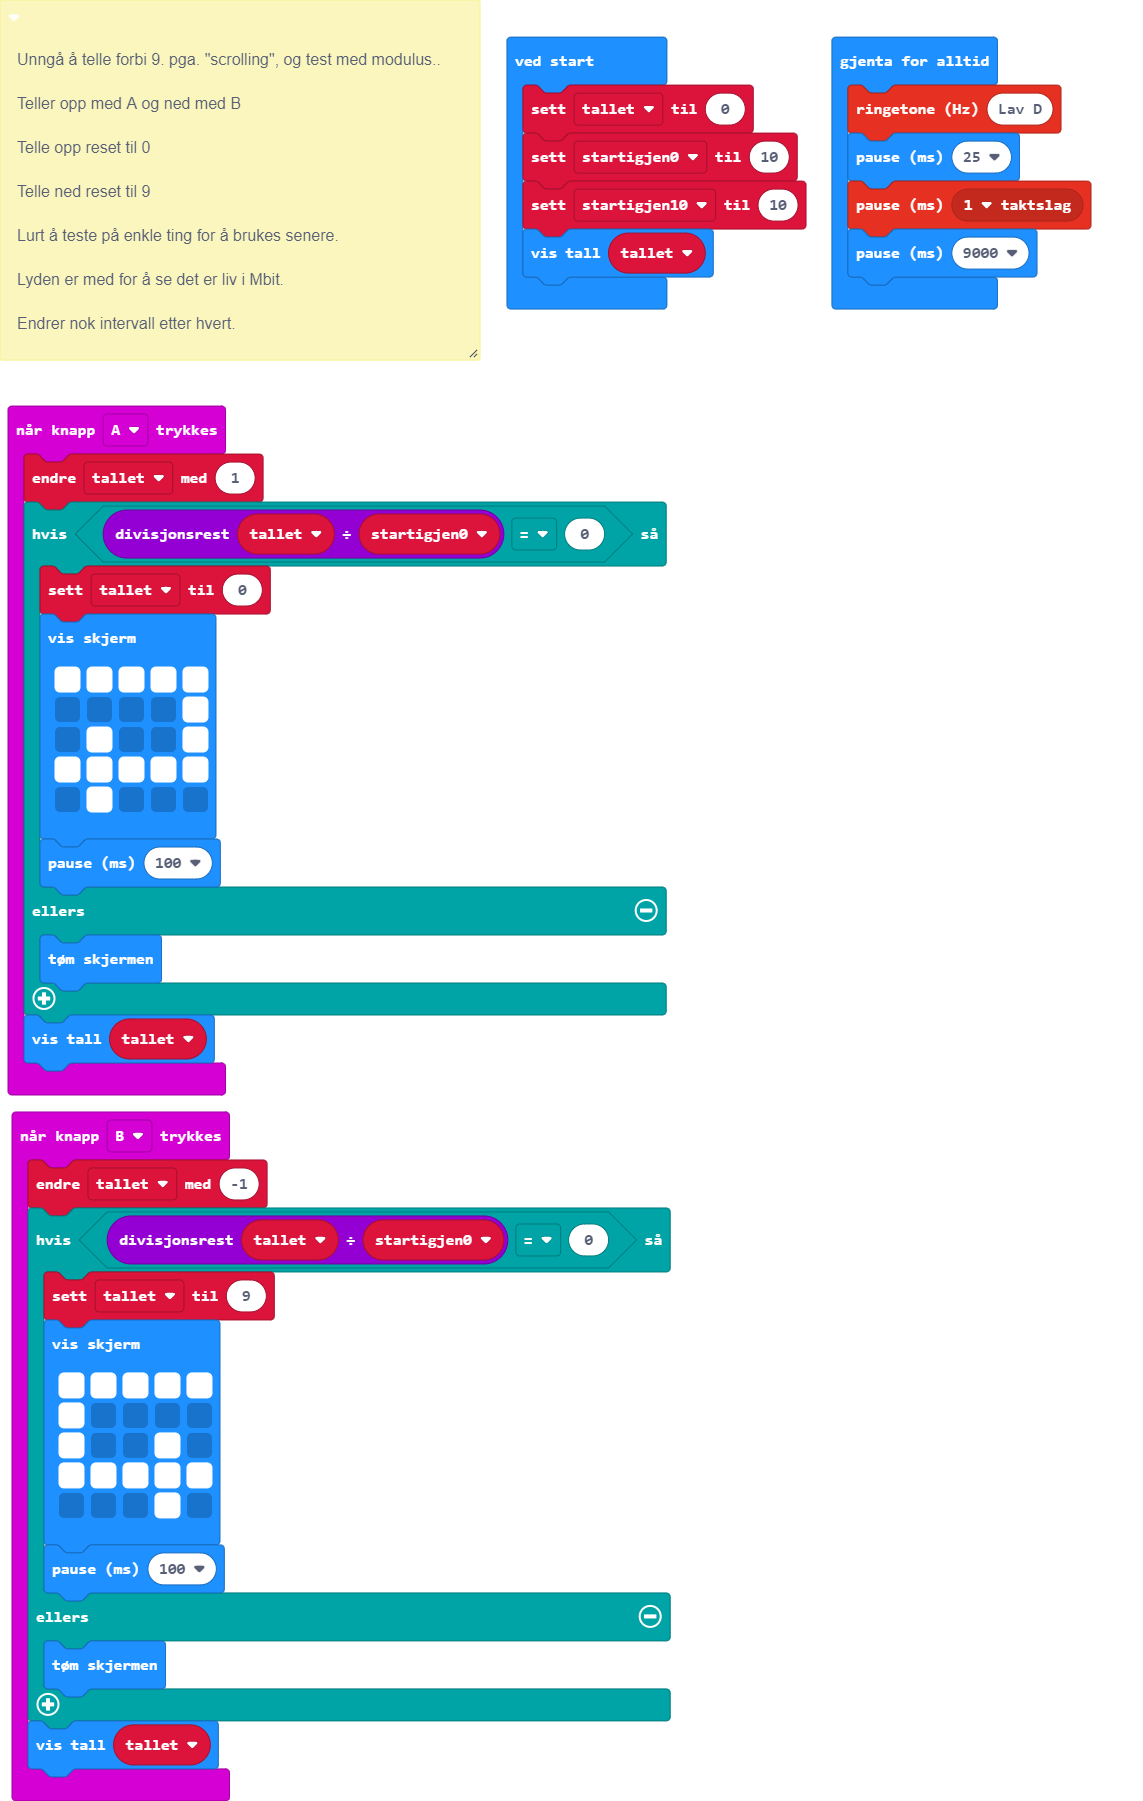
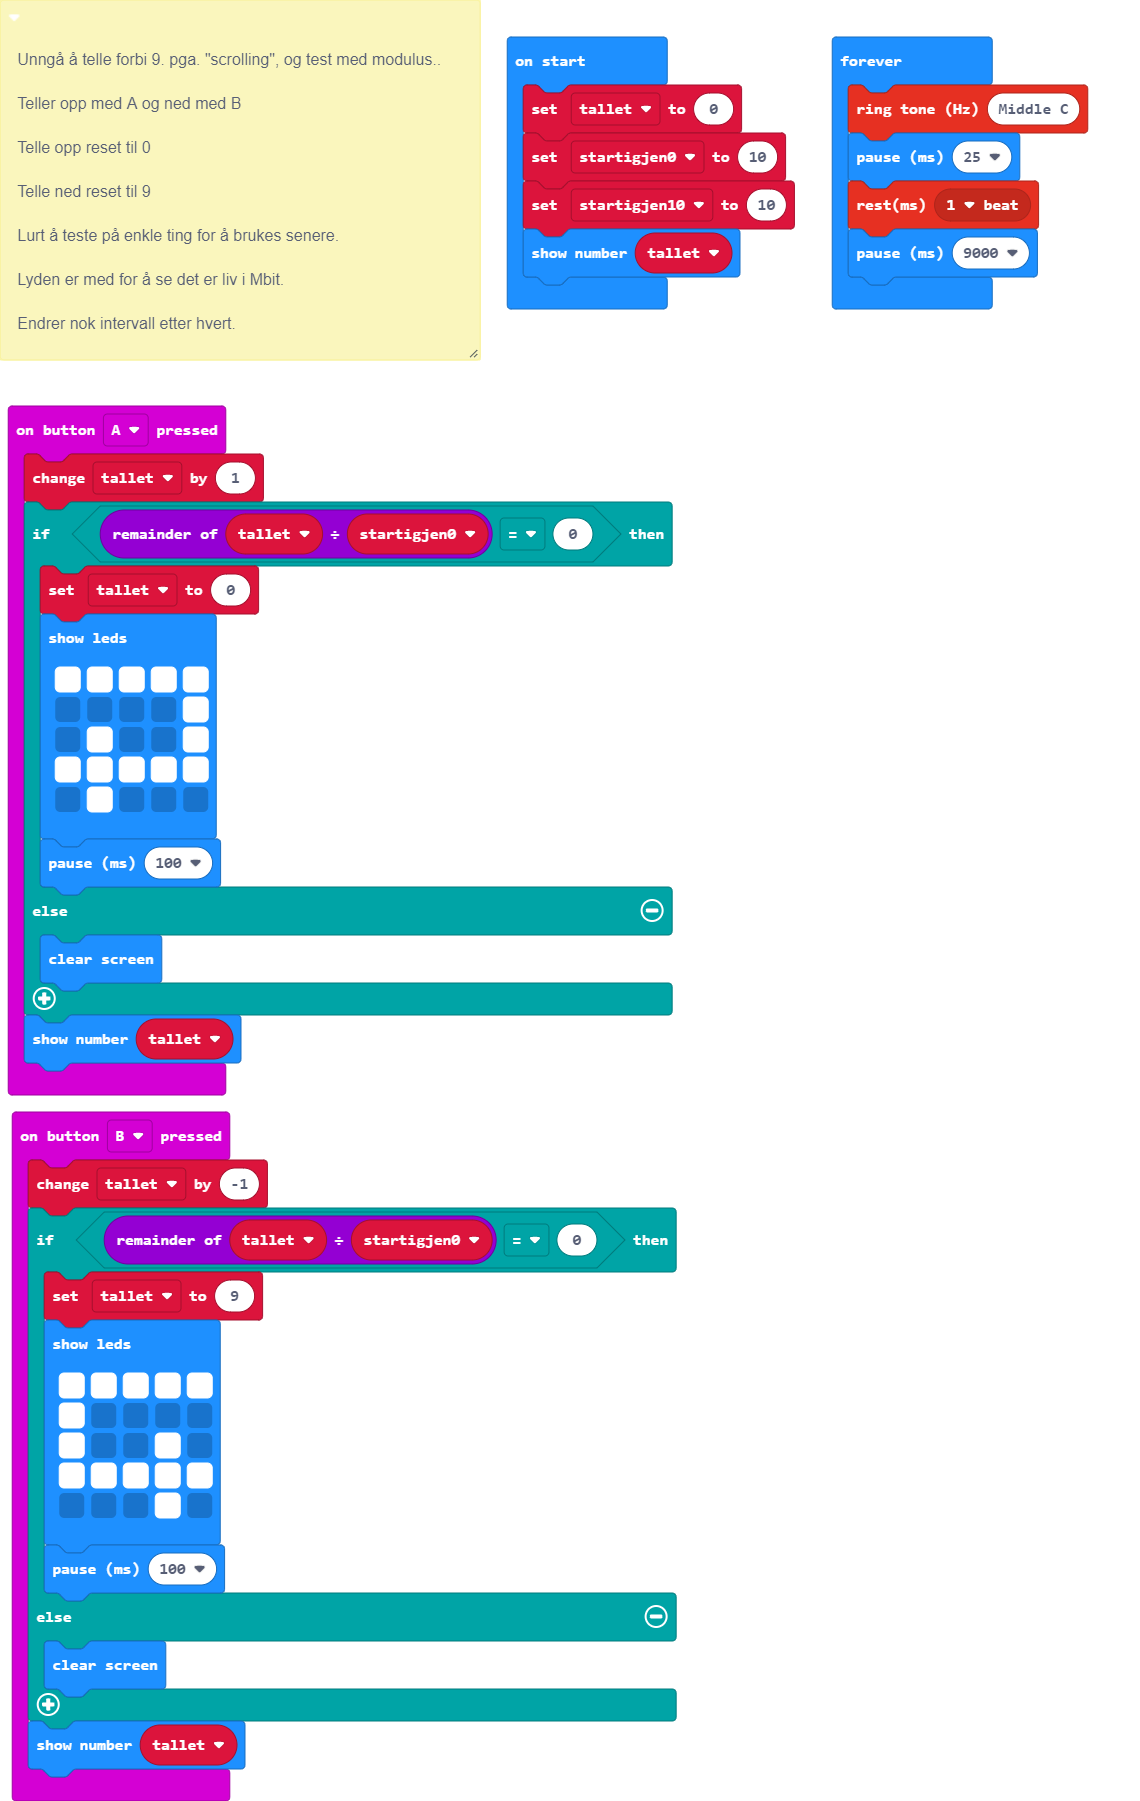
Levert

diff --git a/main.ts b/main.ts
@@ -54,7 +54,7 @@ startigjen0 = 10
 let startigjen10 = 10
 basic.showNumber(tallet)
 basic.forever(function () {
-    music.ringTone(147)
+    music.ringTone(262)
     basic.pause(25)
     music.rest(music.beat(BeatFraction.Whole))
     basic.pause(9000)
